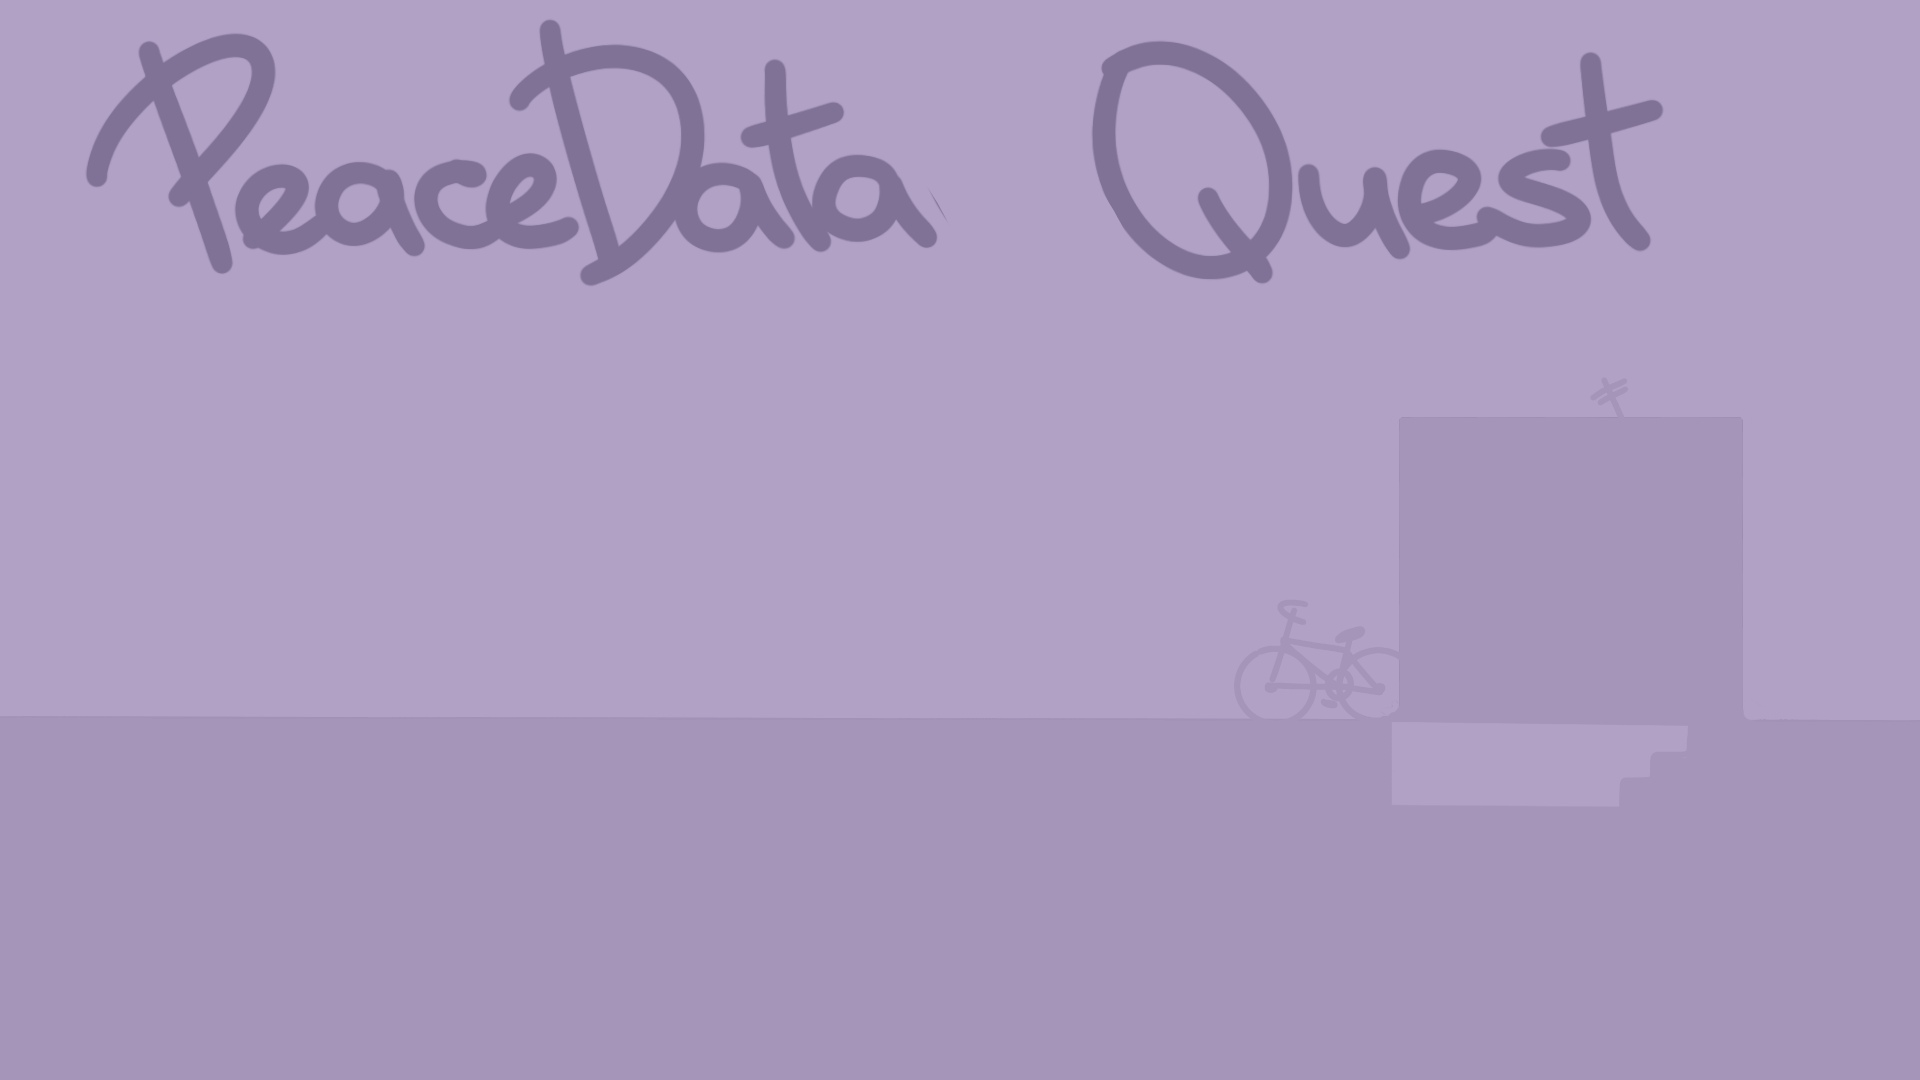
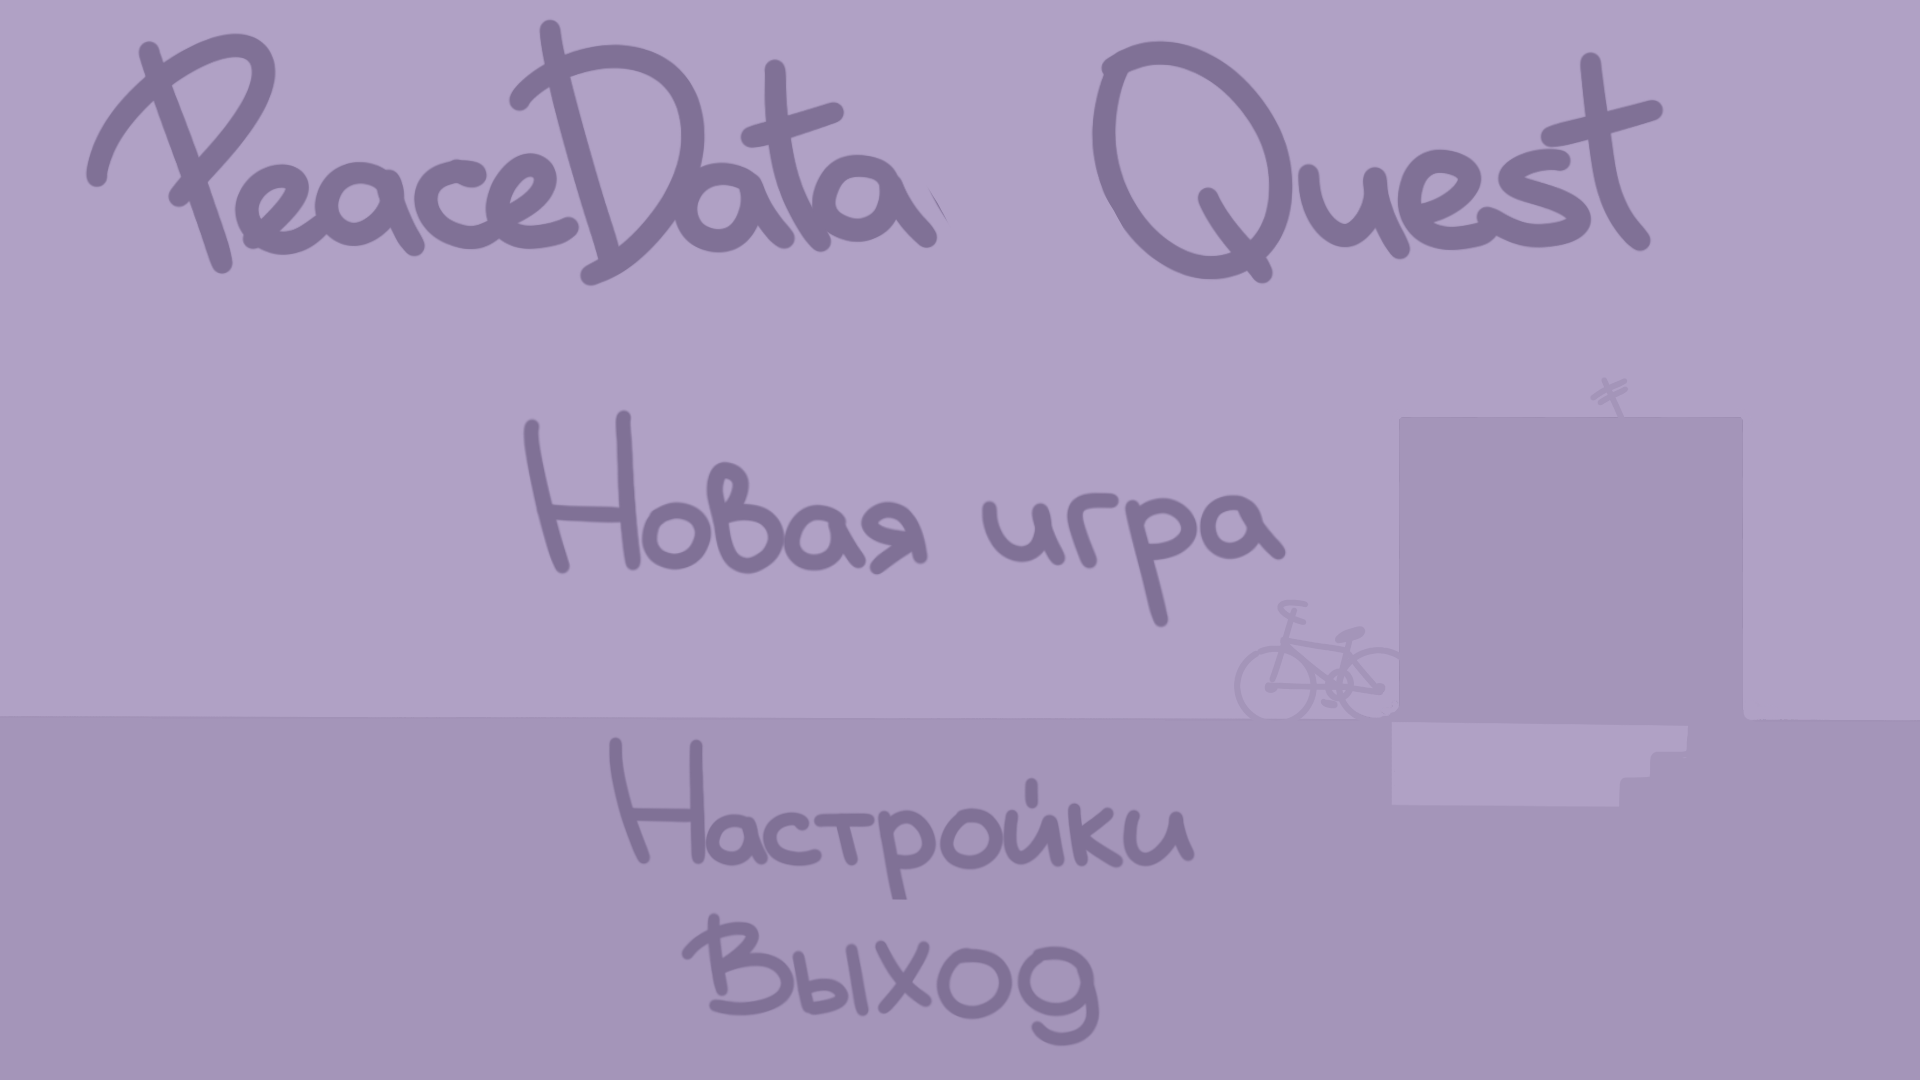
Update main meny buttons

Changed region(s): [[0.25, 0.3667, 0.6875, 0.5806], [0.3125, 0.6722, 0.625, 0.825], [0.3438, 0.8556, 0.5938, 0.9778]]

diff --git a/menu.py b/menu.py
@@ -3,6 +3,7 @@ from cocos.director import director
 from cocos.scenes import FadeTransition as animation
 
 class MainMenu(cocos.menu.Menu):
+    
     """Главное меню"""
     def __init__(self, main_game_scene):
         self.main_game_scene = main_game_scene
@@ -11,11 +12,11 @@ class MainMenu(cocos.menu.Menu):
 
         menus = []
 
-        menus.append(cocos.menu.MenuItem("Новая игра", self.on_new_game)) 
-        menus[0].y = 120 
+        menus.append(cocos.menu.MenuItem("                                               ", self.on_new_game, ))
+        menus[0].y = -50
 
-        menus.append(cocos.menu.MenuItem("Выход", self.on_quit))
-        menus[1].y = 40
+        menus.append(cocos.menu.MenuItem("                                                  ", self.on_quit))
+        menus[1].y = -450
         
         self.create_menu(menus, cocos.menu.shake(), cocos.menu.shake_back()) 
 
@@ -35,9 +36,9 @@ class Settings(cocos.menu.Menu):
         super().__init__()
 
         menus = []
-
-        menus.append(cocos.menu.MenuItem("Настройки", self.on_settings)) 
-        menus[0].y = 100
+        
+        menus.append(cocos.menu.MenuItem("                                                     ", self.on_settings))
+        menus[0].y = -300
         
         self.create_menu(menus, cocos.menu.shake(), cocos.menu.shake_back()) 
 

diff --git a/main_game.py b/main_game.py
@@ -64,7 +64,7 @@ if __name__ == '__main__':
 
     """Инициализация меню основной сценой""" 
     Menu = cocos.scene.Scene() 
-    background_layer = StaticImage("Resources/main_menu_bg.PNG", 1920/2, 1080/2) 
+    background_layer = StaticImage("Resources/main_menu_bg.png", 1920/2, 1080/2) 
     set_m = set_scene(Menu) 
     Menu.add(background_layer) 
     Menu.add(menu.Settings(set_m)) 
